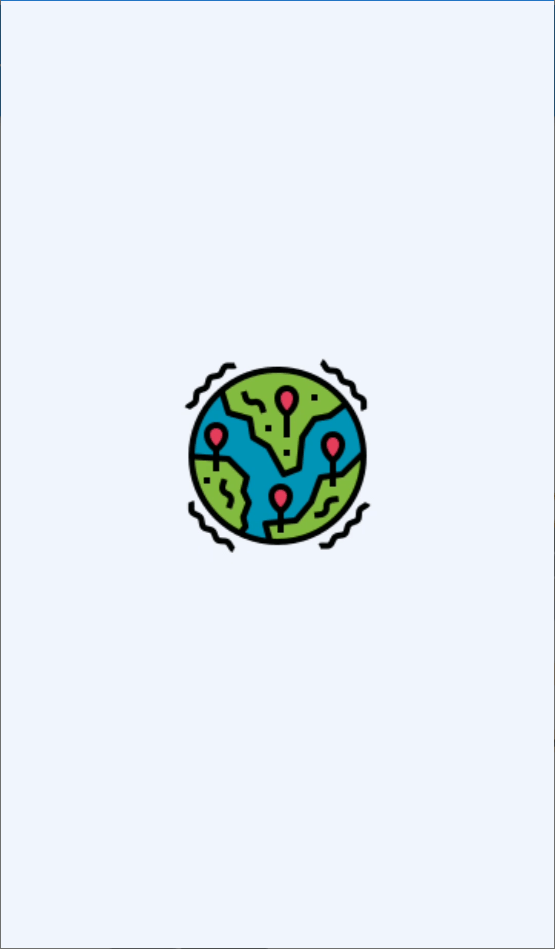
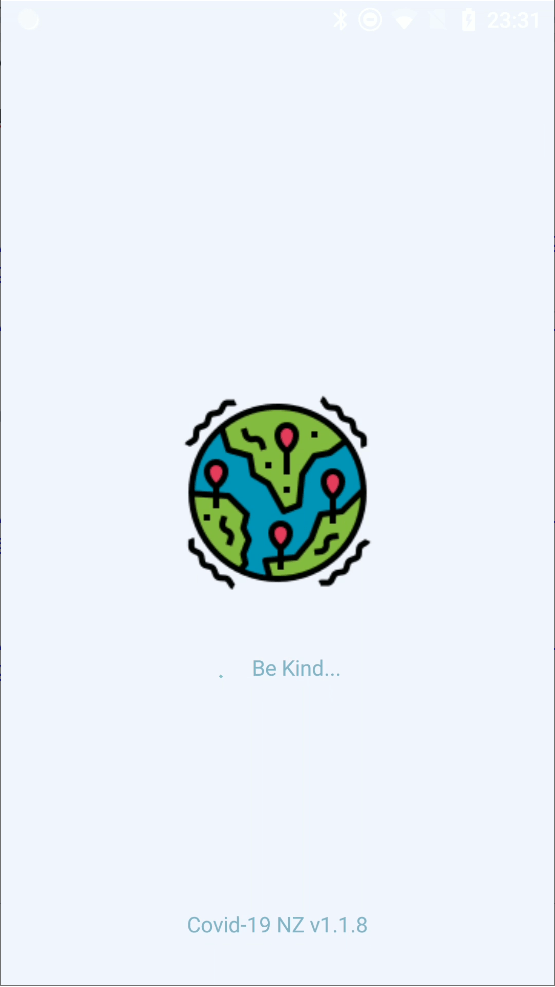
:bento: Update screenshots for v1.1.8.

diff --git a/README.md b/README.md
@@ -19,7 +19,7 @@ Backend API provided by [simeonmiteff](https://github.com/simeonmiteff)/[nzcovid
 	<img align="center" src=".\assets\demo_case.gif" width="340"/>
 </p>
 
-### Screenshots (v1.1.5)
+### Screenshots (v1.1.8)
 |                      Summary                      |                       Cases                       |                        Map                        |                       Info                        |
 | :-----------------------------------------------: | :-----------------------------------------------: | :-----------------------------------------------: | :-----------------------------------------------: |
 | <img src=".\assets\screenshot1.png" width="240" > | <img src=".\assets\screenshot2.png" width="240" > | <img src=".\assets\screenshot3.png" width="240" > | <img src=".\assets\screenshot4.png" width="240" > |
@@ -142,7 +142,7 @@ Check todo list here **[Covid19nz/project](https://github.com/shawyunz/Covid19nz
 
 ## Versions
 
-	v1.X	:construction:
+	v1.X	:construction: Font. Summary card UI. 
 
 	v1.1.8	HttpClient by [yurkinh](https://github.com/yurkinh). API update. Summary animation. New case page UI. New splash.
 
